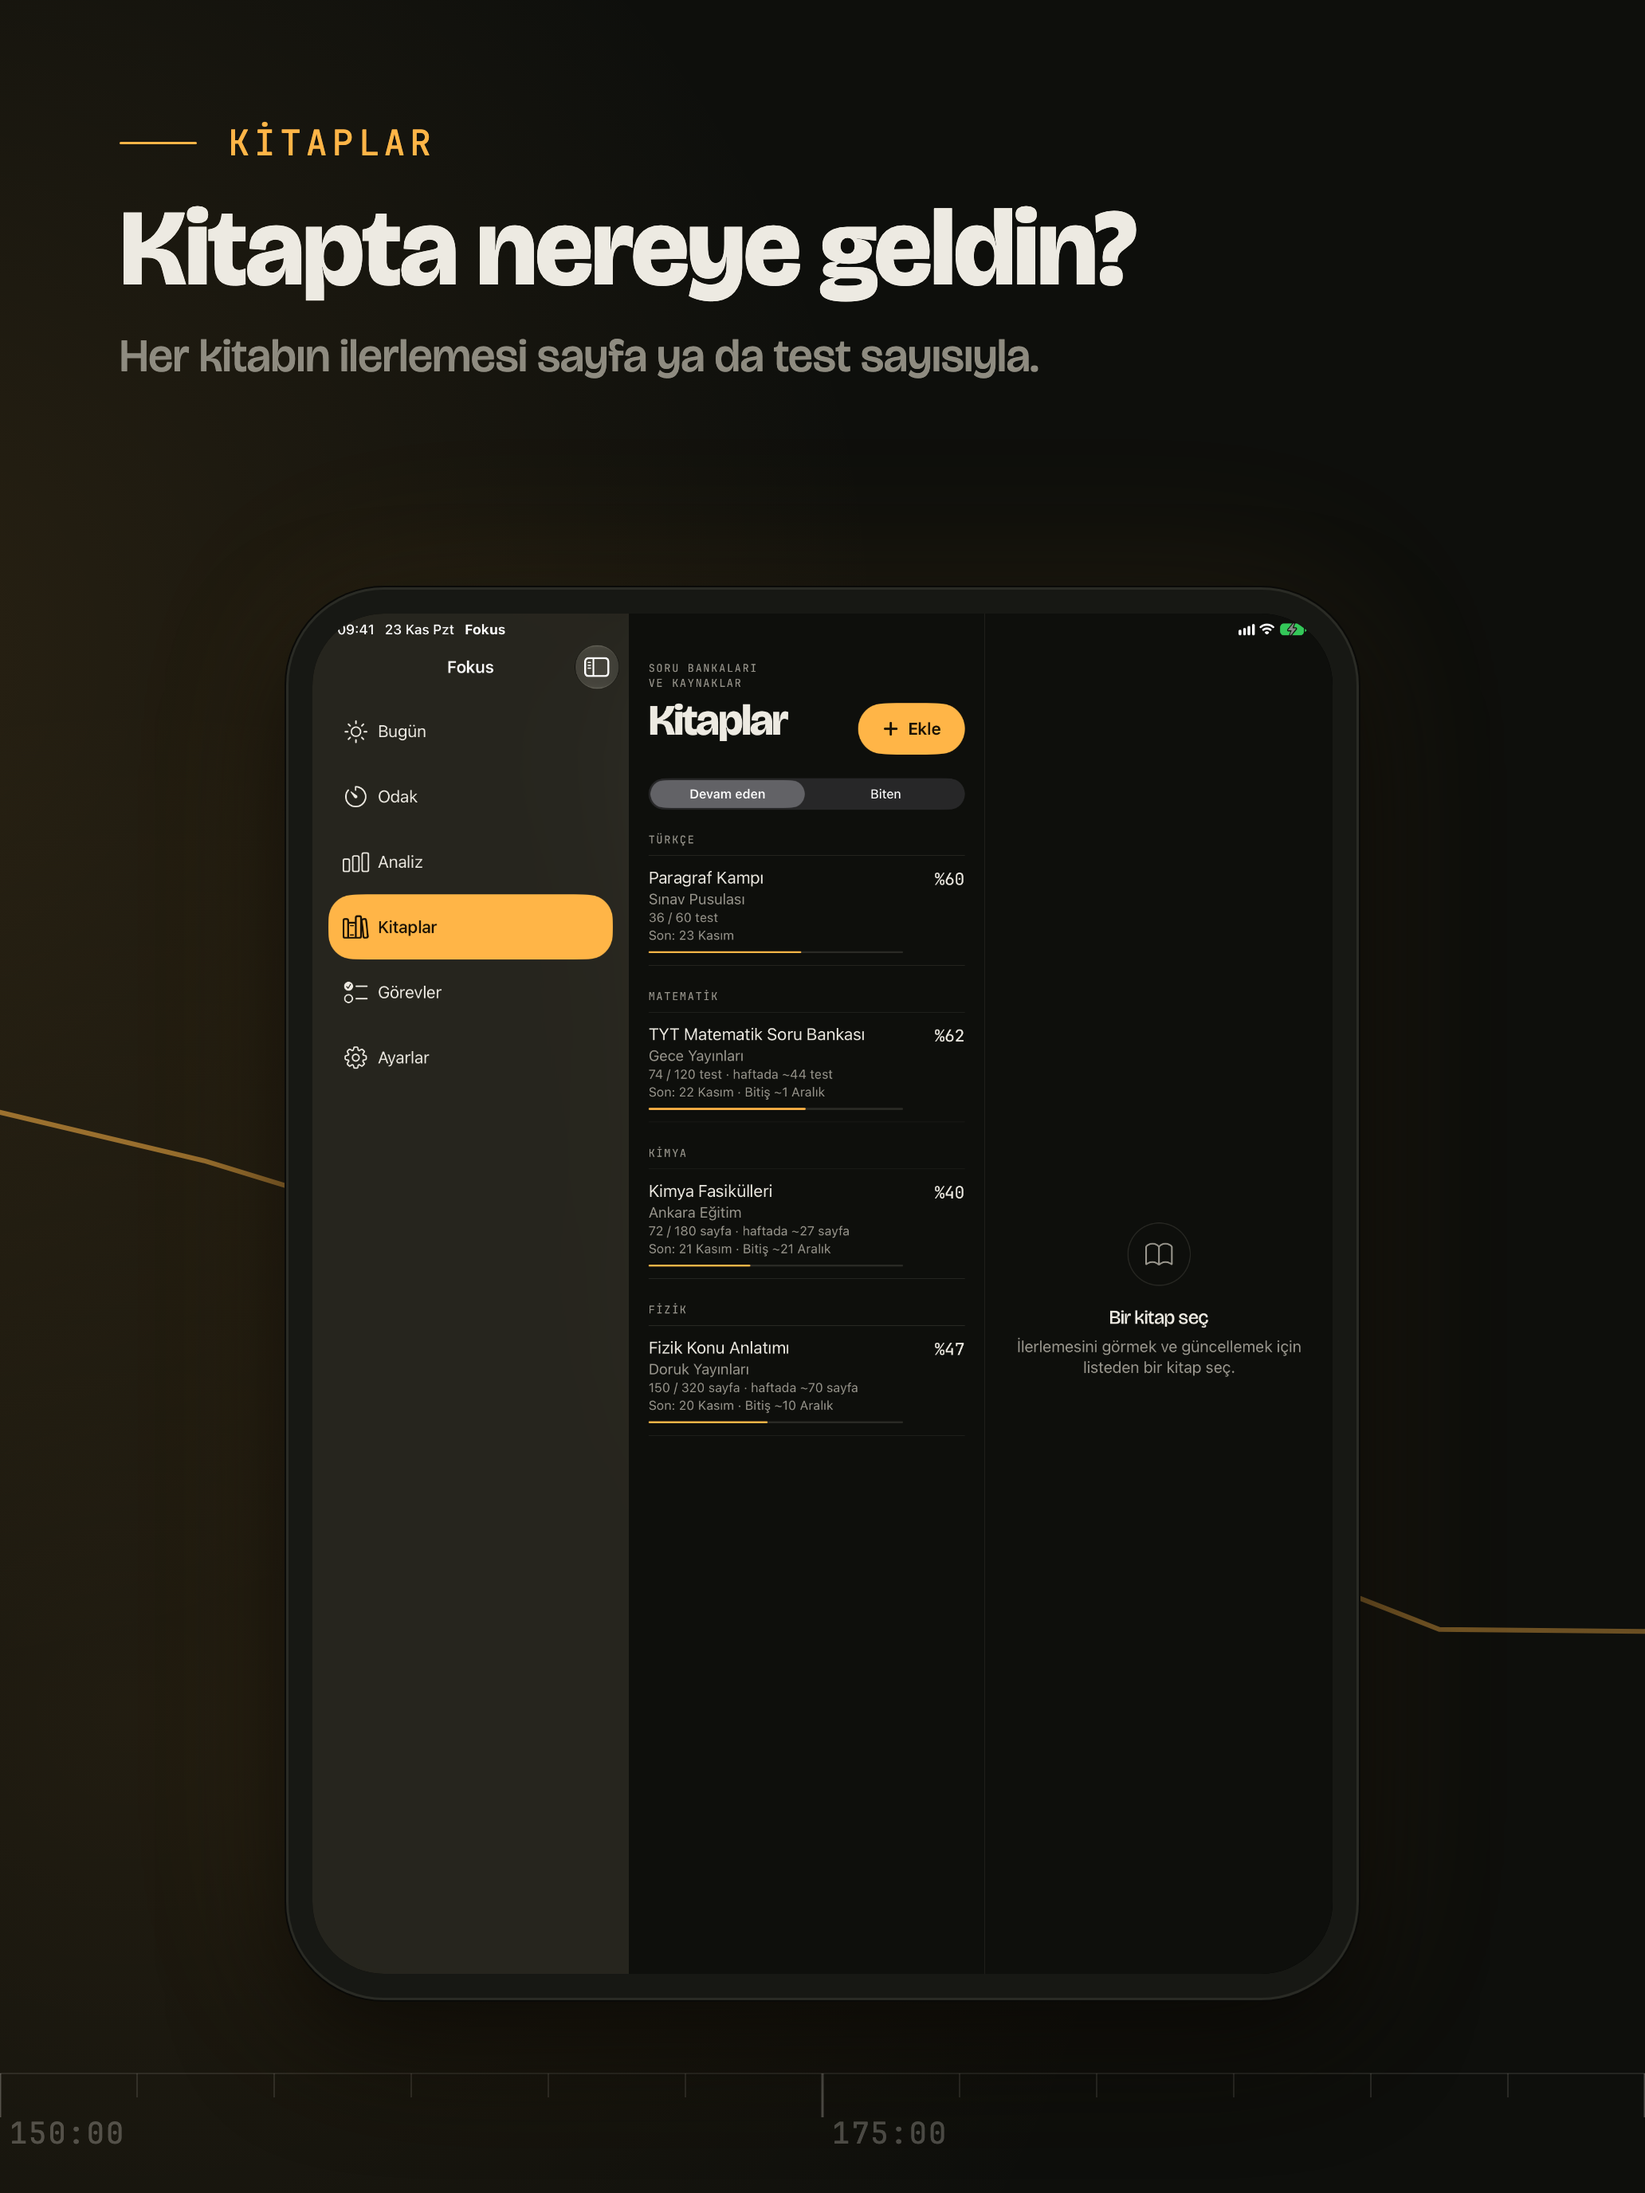
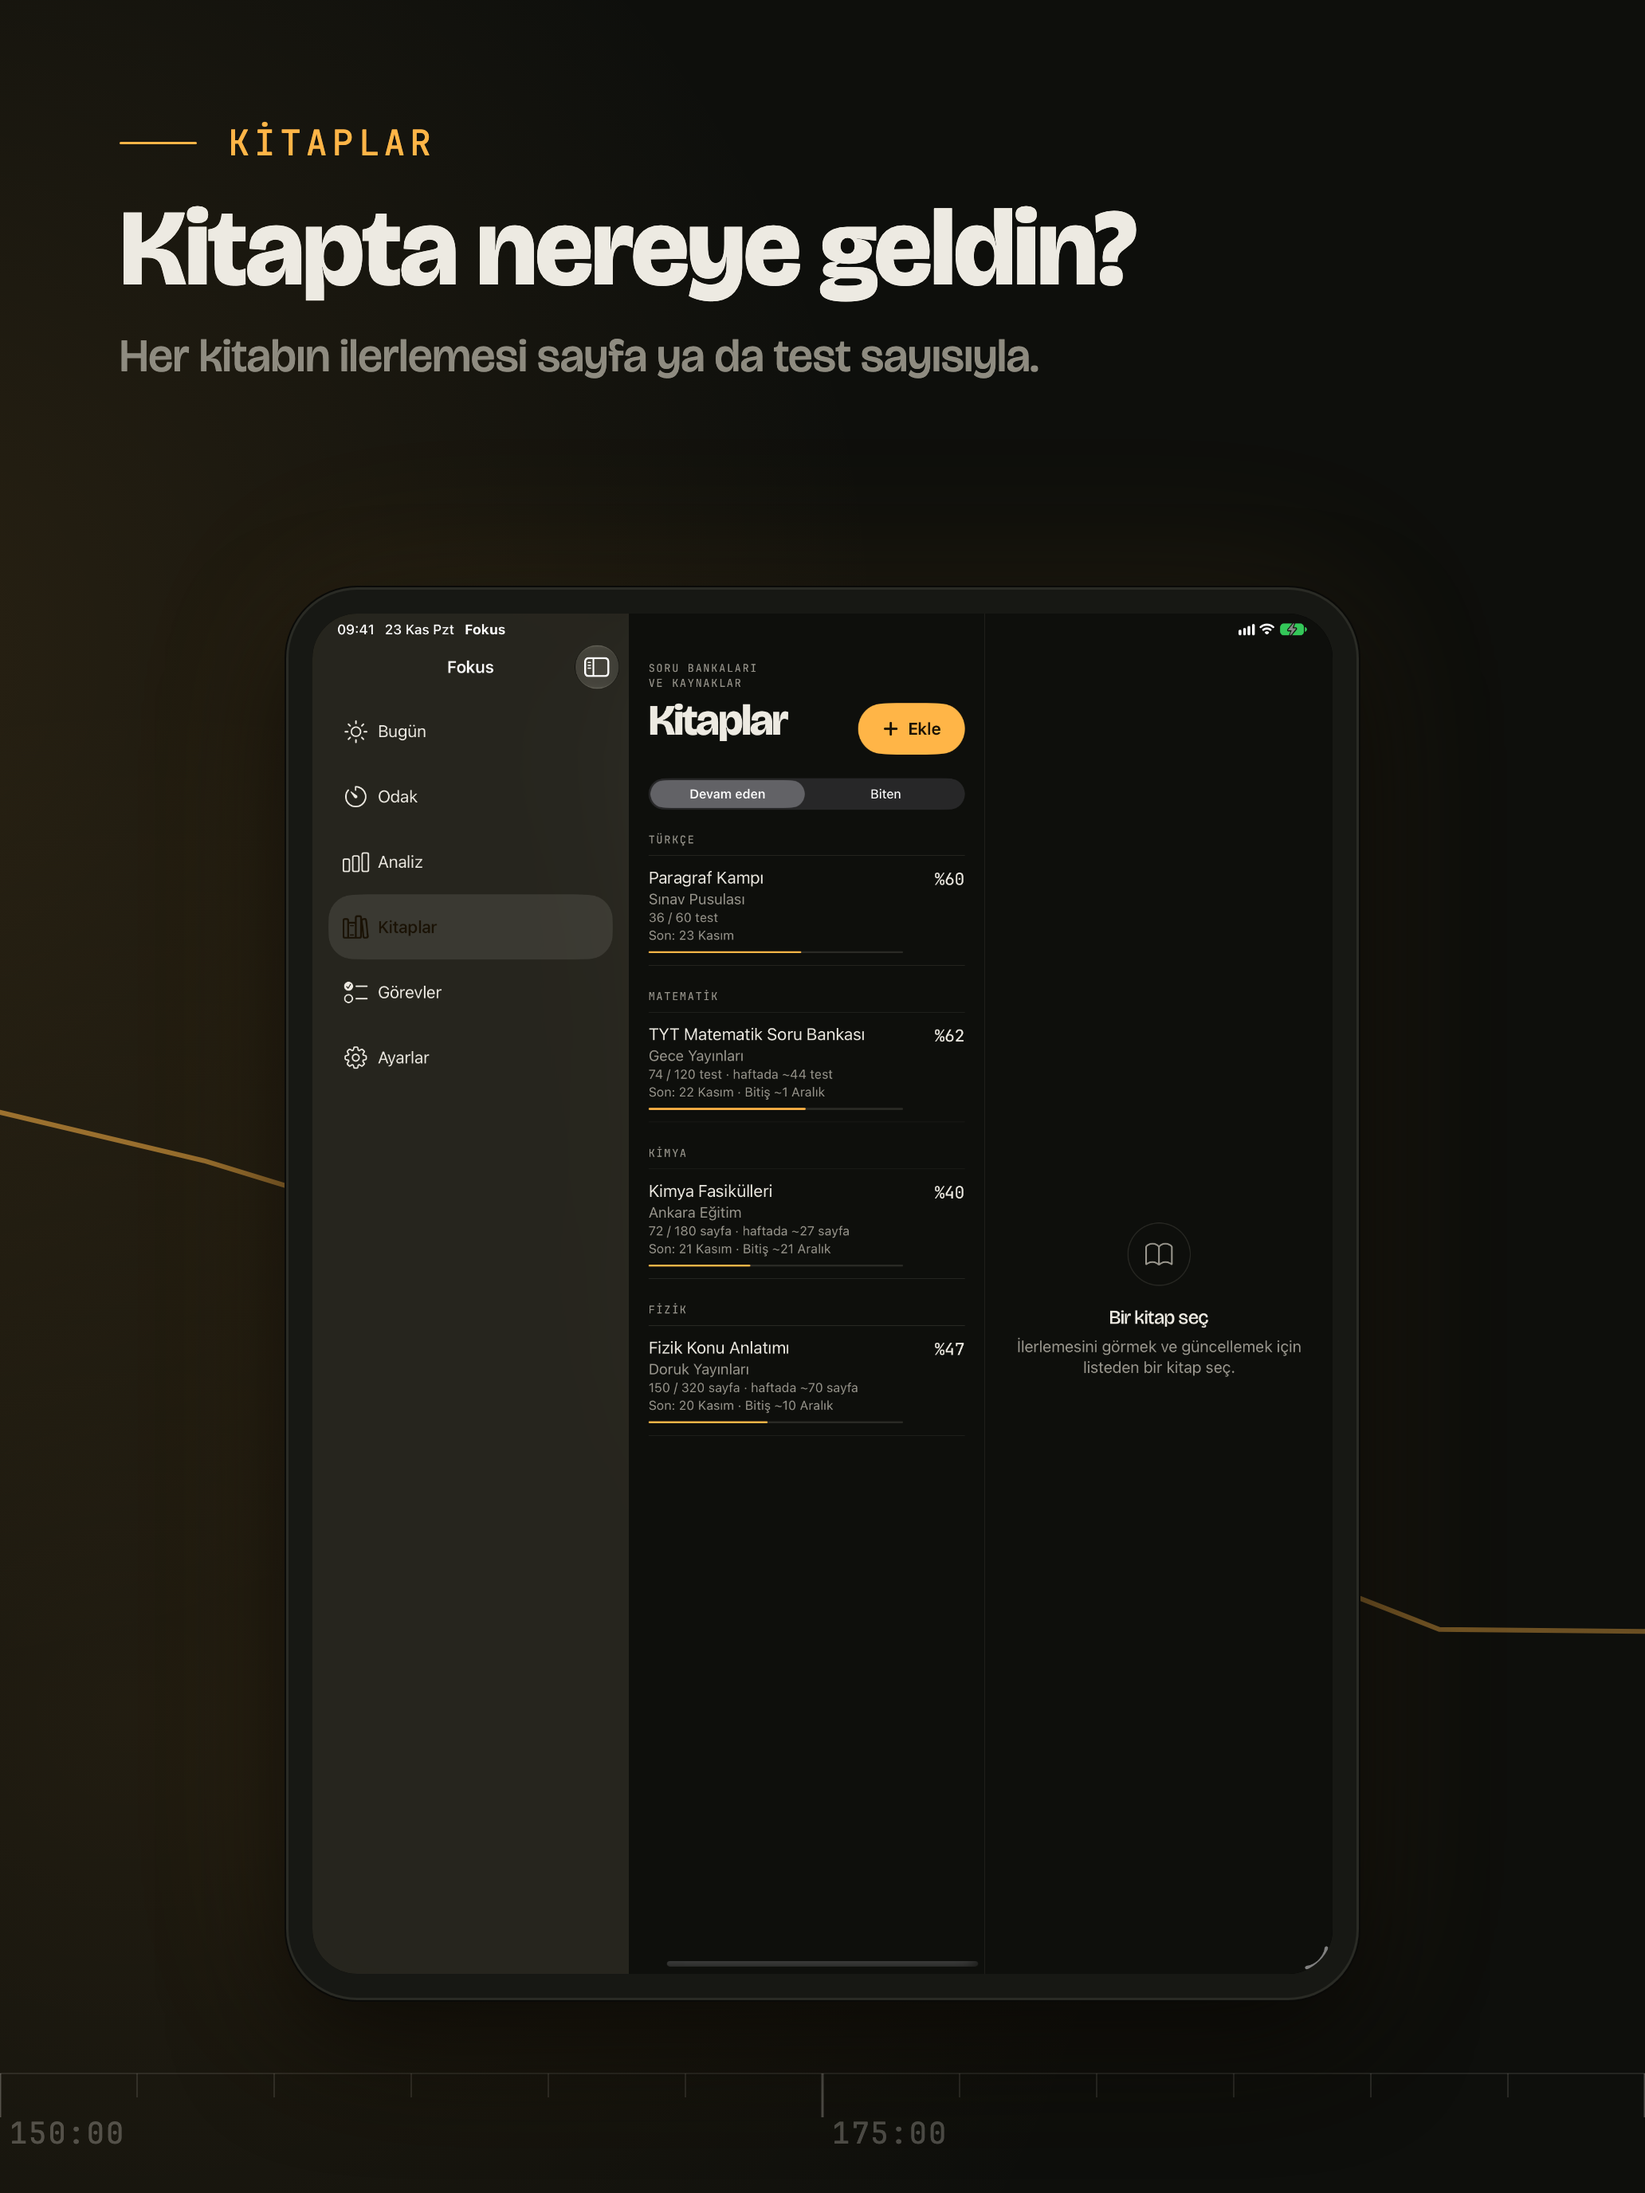
fix(appstore): görselleri Beyza adıyla yeniden üret, iPad ekran köşesi, demo adı Beyza

Changed region(s): [[0.186, 0.4062, 0.3721, 0.4375]]

diff --git a/ios/Fokus/App/StoreListingDemoData.swift b/ios/Fokus/App/StoreListingDemoData.swift
@@ -27,7 +27,7 @@ enum StoreListingDemoData {
         do {
             let profiles = ProfileRepository(context: context)
             guard try profiles.current() == nil else { return }
-            try profiles.completeOnboarding(field: .say, appleUserId: nil, displayName: "Elif", now: now)
+            try profiles.completeOnboarding(field: .say, appleUserId: nil, displayName: "Beyza", now: now)
             try profiles.setDailyFocusGoal(minutes: 240, now: now)
             let subjects = try EntityStore<Subject>(context: context).all()
             let topics = try EntityStore<Topic>(context: context).all()

diff --git a/appstore/screenshots/build_screenshots.py b/appstore/screenshots/build_screenshots.py
@@ -32,7 +32,7 @@ DEVICES = {
     "ipad": {
         "dir": "ipad-13", "size": (2064, 2752),
         "css": {"pad": 150, "copyTop": 150, "eyebrow": 44, "h1": 136, "sub": 58, "gap": 36,
-                "devTop": 740, "devW": 1340, "bezel": 30, "outerR": 120, "innerR": 90},
+                "devTop": 740, "devW": 1340, "bezel": 30, "outerR": 86, "innerR": 56},
         "panels": json.loads((HERE / "src" / "ipad.json").read_text(encoding="utf-8")),
     },
 }
